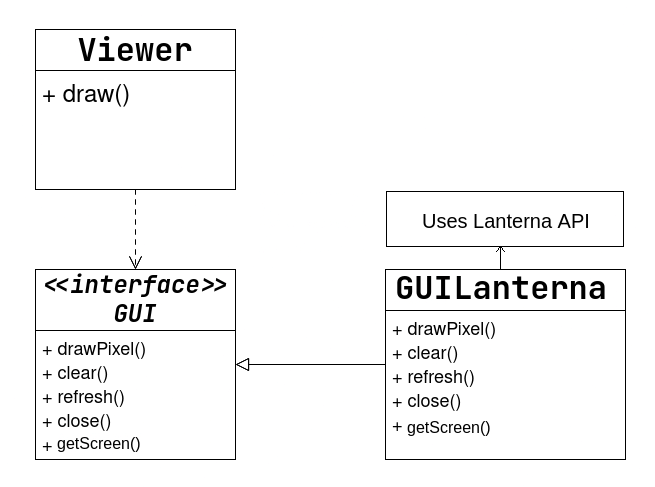
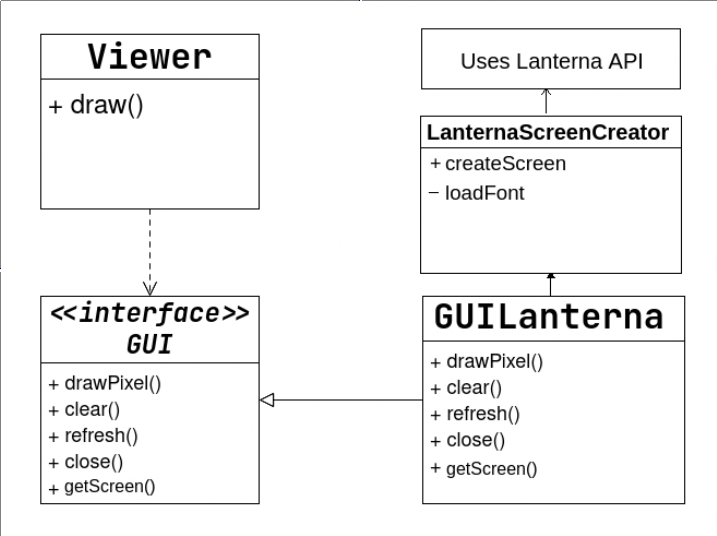
Changed Formating

diff --git a/docs/README.md b/docs/README.md
@@ -92,20 +92,20 @@ Benefits:
 
 ### Multiple Game States
 
-**Problem in Context**
+#### Problem in Context
 
 It is crucial that we support multiple game states. The game should know whether it is currently on the game or in a menu.
 This means we can't mix rendering coordination with screen logic, because it would violate the Single Responsibility Principle and made transitions more complex.
 This could obviously be solved with some conditionals, this is not a very scalable approach as eventually there would be a giant block of code inside our game.
 
-**The Pattern**
+#### The Pattern
 
 We applied the **State** pattern. Each game state is distinct encapsulating its own model, viewer and controller.
 `Game` holds a reference to the current `State<?>` and then it only needs to delegate to it. This way, switching game scene is now replacing the state instance.
 
 States are also the glue for our project structure, containing the model, view and controller. Allowing everything to be updated in order.
 
-**Implementation**
+#### Implementation
 
 - Core abstraction: [`states/State.java`](/src/main/java/com/ldtsfeup2526/bobTheDestructor/states/State.java#L11-L33). It holds the screen model, a `Controller<T>`, and a `ScreenViewer<T>`, created via factory methods.
 - Game loop delegation: [`Game.java`](/src/main/java/com/ldtsfeup2526/bobTheDestructor/Game.java#L43-L61) calls `state.update(gui)` every frame and exposes `setState(...)` for transitions ([`Game.java#setState`](../src/main/java/com/ldtsfeup2526/bobTheDestructor/Game.java#L65-L67)).
@@ -114,7 +114,7 @@ States are also the glue for our project structure, containing the model, view a
 Here is a visualization of how it is implemented:
 <img src="images/states.png">
 
-**Consequences**
+#### Consequences
 
 Benefits:
 - Clean separation of concerns between the main loop and screen logic.
@@ -126,24 +126,24 @@ Liabilities:
 
 ### Rendering Multiple Elements
 
-**Problem in Context**
+#### Problem in Context
 
 As we introduced multiple renderable elements like (player, tiles, decor, etc.), a single monolithic renderer would accumulate `if/switch` chains to handle each type,
 making it hard to add new visuals and violating the Open/Closed Principle.
 
-**The Pattern**
+#### The Pattern
 
 We applied the **Strategy pattern** for the drawing method. Each drawable element has its own viewer strategy implementing a common interface.
 Screens then will compose these strategies to render the model.
 
-**Implementation**
+#### Implementation
 
 - Strategy interface: [`view/elements/ElementViewer.java`](../src/main/java/com/ldtsfeup2526/bobTheDestructor/view/elements/ElementViewer.java#L6-L8).
 - Strategy composition/provider: [`view/ViewerProvider.java`](../src/main/java/com/ldtsfeup2526/bobTheDestructor/view/ViewerProvider.java#L7-L16) instantiates and exposes concrete viewers like `PlayerViewer`.
 - Example concrete strategy: [`view/elements/PlayerViewer.java`](../src/main/java/com/ldtsfeup2526/bobTheDestructor/view/elements/PlayerViewer.java).
 - Screen-level composition: `ScreenViewer<T>` aggregates the strategies to draw a complete screen.
 
-**Consequences**
+#### Consequences
 
 Benefits:
 - New renderable types can be added by creating a new `ElementViewer` implementation while existing code stays closed to modification.
@@ -154,24 +154,27 @@ Liabilities:
 
 ### Simplification of Lanterna's interface
 
-**Problem in Context**
+#### Problem in Context
 
 Directly using Lanterna's API can be frustrating and unclear, specially for rendering multiple game elements.
 This would mess up portability and made switching or configuring anything harder.
 
-**The Pattern**
+#### The Pattern
 
 We combined **Adapter** and **Factory** patterns:
 - **Adapter:** define a minimal `GUI` interface for drawing operations, with `GUILanterna` adapting Lanterna’s `Screen` to that interface.
 - **Factory:** centralize creation and also configuration of the `Screen` via a `ScreenCreator`.
 
-**Implementation**
+#### Implementation
 
 - Adapter (`GUILanterna`): wraps Lanterna and implements drawing methods; see [`gui/GUILanterna.java`](/src/main/java/com/ldtsfeup2526/bobTheDestructor/gui/GUILanterna.java#L19-L81). Notable operations include `drawPixel`, `clear`, `refresh`, and `close`.
 - Factory (`ScreenCreator`): interface to build a configured Lanterna `Screen`; see [`gui/ScreenCreator.java`](/src/main/java/com/ldtsfeup2526/bobTheDestructor/gui/ScreenCreator.java#L11-L13). `GUILanterna` delegates actual creation to this factory in `createScreen(...)`.
 - Integration in boot: `Game` builds `GUILanterna` with resolution, pixel size, and title; see [`Game.java` constructor](/src/main/java/com/ldtsfeup2526/bobTheDestructor/Game.java#L26-L31).
 
-**Consequences**
+Here is a visualization of how it is implemented:
+<img src="images/GUI.png">
+
+#### Consequences
 
 Benefits:
 - The view classes uses a stable `GUI` API and is decoupled from Lanterna specific methods.
@@ -183,25 +186,25 @@ Liabilities:
 
 ### Input Handling
 
-**Problem in Context**
+#### Problem in Context
 
 Raw key events (press/release) are noisy and platform-dependent. Game logic should operate on semantic actions (e.g., `UP`, `JUMP`, `SELECT`) and avoid repeated triggers for single-shot actions while a key is held.
 Naive solutions would scatter key-code checks and introduce confusion across controllers.
 
-**The Pattern**
+#### The Pattern
 
 We leveraged the **Observer** style provided by Java AWT (`KeyListener`) to receive events, and applied a small parsing layer that behaves like a Command/Interpreter for inputs: `ActionParser` translates key codes into domain actions and coordinates one-shot behavior using an `InputReader` buffer.
 
 This combination cleanly separates event capture from action semantics. We also abstained from using Lanterna's implementation as it had a few drawbacks.
 This implementation allows for multiple Key Events per frame while having a clean implementation separate from the GUI.
 
-**Implementation**
+#### Implementation
 
 - Event capture buffer: [`controller/input/InputReader.java`](../src/main/java/com/ldtsfeup2526/bobTheDestructor/controller/input/InputReader.java#L9-L56) implements `KeyListener`, maintaining `inputPressed` and `inputFinished` lists; `updateInputPressed()` updates inputs each frame.
 - Parsing to actions: [`controller/input/ActionParser.java`](../src/main/java/com/ldtsfeup2526/bobTheDestructor/controller/input/ActionParser.java#L8-L59) maps key codes to `Action` values and marks single-shot actions (`SPACE`, `ENTER`, `ESCAPE`) as finished.
 - Wiring in boot: `Game` creates the parser and passes its `InputReader` into the GUI, so the same listener receives events and focuses keyboard while using Lanterna's screen; see [`Game.java` boot](../src/main/java/com/ldtsfeup2526/bobTheDestructor/Game.java#L26-L31).
 
-**Consequences**
+#### Consequences
 
 Benefits:
 - Clear separation between event capture and semantic actions.
@@ -219,13 +222,13 @@ So far we haven't found any code smells. Although we would like that this contin
 
 We focused on unit testing to ensure the reliability of the game's architectural components, specifically the **Model**, **View**, and **State** systems. By isolating these components, we could verify behavior without relying on the complex graphical backend.
 
-**Testing Strategy:**
+#### Testing Strategy:
 *   **Models**: We verified that game elements (Player, Blocks, Minerals) hold state correctly and interactions (like collision bounding boxes) function as expected.
 *   **Controllers**: We tested the `InputReader` and `ActionParser` to ensure that raw keyboard inputs are correctly translated into semantic game actions (`UP`, `SELECT`, etc.).
 *   **Viewers**: We achieved high coverage in the view package by testing the strategy pattern implementations, ensuring the correct symbols and colors are associated with game elements.
 *   **States**: We validated that states correctly initialize their respective controllers and viewers.
 
-**Coverage Summary:**
+#### Coverage Summary:
 The project achieved a high degree of code coverage, as shown in the report below:
 
 ![Coverage Report](intermediateDelivery/Overall_Coverage_Report.png)
@@ -234,7 +237,7 @@ The project achieved a high degree of code coverage, as shown in the report belo
 *   **Method Coverage**: 91.7%
 *   **Line Coverage**: 85.6%
 
-**Detailed Breakdown:**
+#### Detailed Breakdown:
 *   **Core Logic (`model.game`, `states`, `view`)**: These packages achieved **100% line coverage**. This ensures that the core gameplay loop, state transitions, and rendering logic are robust and error-free.
 *   **Input Handling (`controller.input`)**: With **89.8% line coverage**, the input system is reliable, ensuring smooth player control.
 *   **Untested Areas**: The lower coverage in specific areas (like `model.menu` or parts of the main `Game` loop) is due to these classes being simple data containers or the main entry point, which are verified through manual integration testing.

diff --git a/README.md b/README.md
@@ -37,3 +37,6 @@ For a more detailed version of this description, click [here](./docs/README.md).
     <img src="docs/mockups/game_mockup.gif">
 </p>
 
+## General Structure
+
+<img src="docs/intermediateDelivery/uml.png">